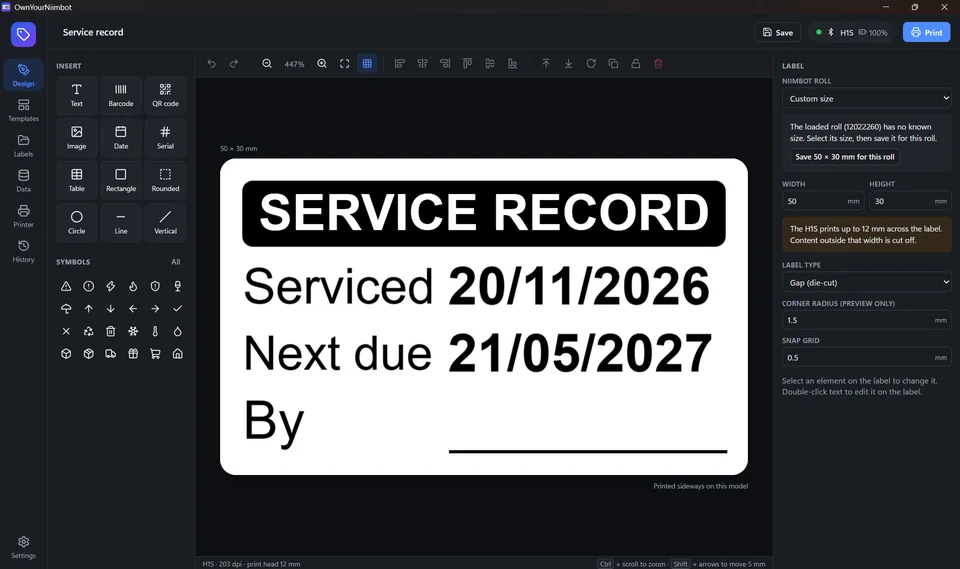
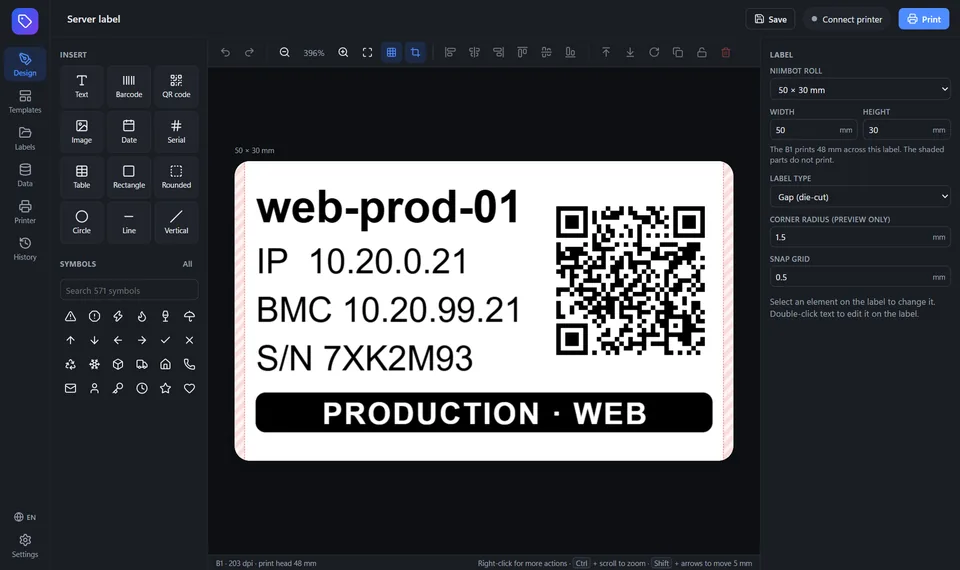
Replace the main design view screenshot
Take it from version 1.10.0 with the Server label template at 50 x 30 mm,
and make the social preview image from it.

diff --git a/content/screenshots.html b/content/screenshots.html
@@ -5,10 +5,10 @@ description: Screenshots of OwnYourNiimbot, the free label designer for NIIMBOT 
 crumb: Screenshots
 wide: true
 ---
-<p class="lead">The screenshots show version {%version%} on Windows in the dark theme. The app also has a light theme, and it looks the same on macOS and Linux. Select a screenshot to see it at full size.</p>
+<p class="lead">The screenshots show OwnYourNiimbot on Windows in the dark theme. The app also has a light theme, and it looks the same on macOS and Linux. Select a screenshot to see it at full size.</p>
 
 <div class="gallery">
-{%figure editor | The design view with a 50 × 30 mm service record label on an H1S printer. | Design view with a connected H1S. The panel on the right shows the roll, the label size and the print width.%}
+{%figure editor | The design view with a 50 × 30 mm server label from the template library. | The design view with the Server label template. The panel on the right shows the roll, the label size, the print width and the label type.%}
 {%figure templates | The template library with server, rack and asset labels. | Template library. 529 designs in 17 categories, filtered to the printer and the roll.%}
 {%figure design | An asset tag template with a Code 128 barcode in the design view. | An asset tag from the template library. The shaded stripes at the sides do not print on a 48 mm print head.%}
 {%figure print | The print dialog with the label preview, copies, print density and label type. | The print dialog. The preview shows the label at the printer resolution.%}

diff --git a/content/index.html b/content/index.html
@@ -12,7 +12,7 @@ layout: home
 <p class="lead">OwnYourNiimbot designs and prints labels on NIIMBOT label printers from Windows, macOS and Linux. It connects to the printer over Bluetooth or a USB cable. You need no account, no cloud service and no internet connection.</p>
 {%hero-download%}
 </div>
-{%figure editor | The OwnYourNiimbot design view with a 50 × 30 mm service record label. The insert tools and symbols are on the left. The label size, roll and type are on the right. | | eager window hero-shot%}
+{%figure editor | The OwnYourNiimbot design view with a 50 × 30 mm server label with a hostname, IP addresses, a serial number and a QR code. The insert tools and symbols are on the left. The roll, the label size and the label type are on the right. | | eager window hero-shot%}
 </div>
 </section>
 
